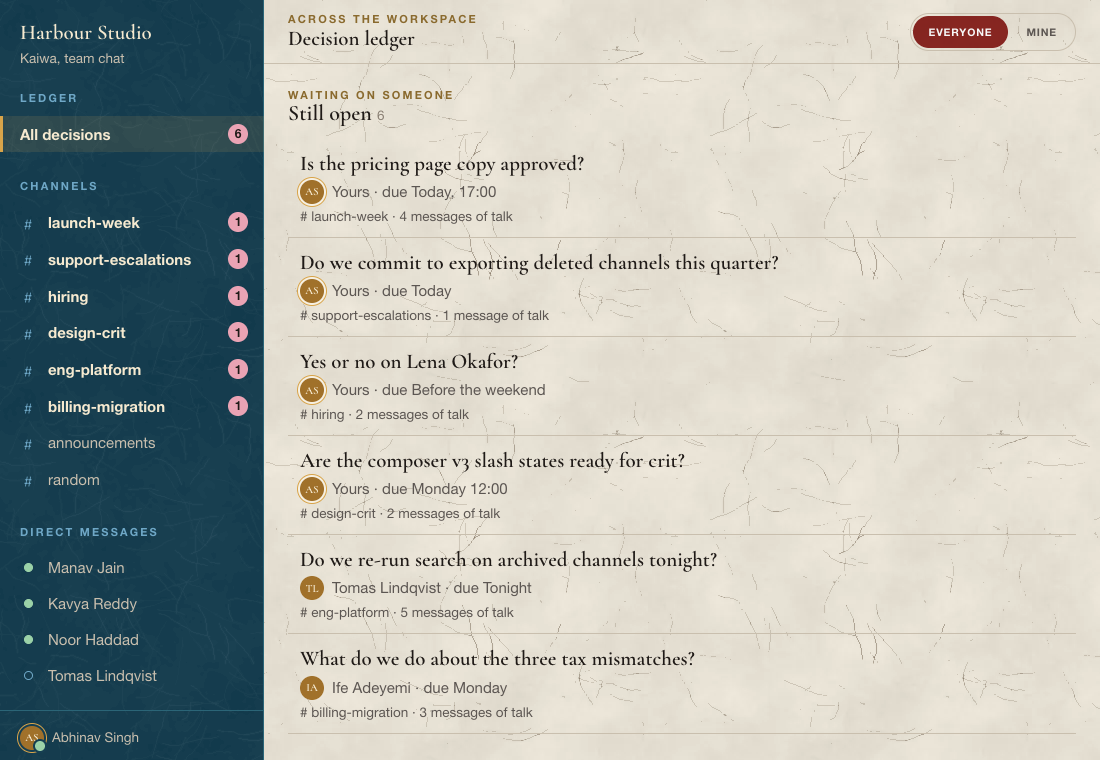
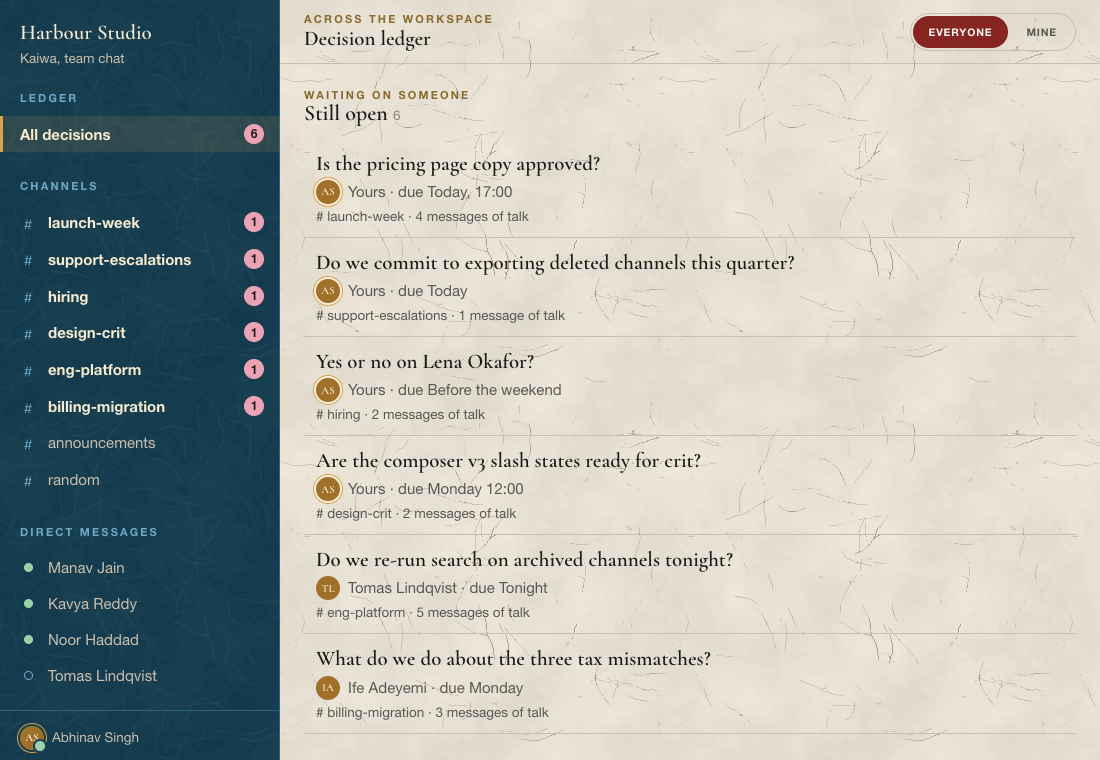
Chat and landing: answered posts leave the page, wider ledger rail, clearer panels

diff --git a/products/chat/02-mentioned-post/main.tsx b/products/chat/02-mentioned-post/main.tsx
@@ -14,8 +14,8 @@ const ROLES: Record<string, string> = { 'Kavya Reddy': 'Product designer', 'Mana
 
 // Saved between visits; survives a blocked or cleared store by falling back to the start state.
 const KEY = 'broadsheet-v1';
-type Saved = { read: Record<string, boolean>; extra: Record<string, Msg[]>; drafts: Record<string, string>; hidden: string[] };
-const EMPTY: Saved = { read: {}, extra: {}, drafts: {}, hidden: [] };
+type Saved = { read: Record<string, boolean>; extra: Record<string, Msg[]>; drafts: Record<string, string>; hidden: string[]; answered: Record<string, boolean> };
+const EMPTY: Saved = { read: {}, extra: {}, drafts: {}, hidden: [], answered: {} };
 const load = (): Saved => { try { return { ...EMPTY, ...JSON.parse(localStorage.getItem(KEY) ?? '{}') }; } catch { return EMPTY; } };
 const save = (s: Saved) => { try { localStorage.setItem(KEY, JSON.stringify(s)); } catch { /* still works for this visit */ } };
 
@@ -34,7 +34,8 @@ const MAX = () => (matchMedia('(max-width: 760px)').matches ? 1 : matchMedia('(m
 function Broadsheet() {
   useTabTrap();
   const [data, setData] = useState<Saved>(load);
-  const { read, extra, drafts, hidden } = data;
+  const { read, extra, drafts, hidden, answered } = data;
+  const [showAnswered, setShowAnswered] = useState(false);
   const put = useCallback((f: (d: Saved) => Saved) => setData((d) => { const n = f(d); save(n); return n; }), []);
   const [attached, setAttached] = useState<Record<string, File | undefined>>({});
   const forms = useRef<Record<string, HTMLFormElement | null>>({});
@@ -120,8 +121,12 @@ function Broadsheet() {
     if (!text && !file) return;
     const msg: Msg = { id: `s${Date.now()}`, who: ME, time: NOW, text: text || 'Shared a file.', file };
     setAttached((x) => ({ ...x, [s.key]: undefined }));
+    // Answering clears a post from the home page. Channel chats and personal chats are not posts.
+    const post = !s.key.startsWith('dm:') && !s.key.startsWith('c:');
+    const done = s.key.startsWith('m:') ? [s.key, ...stories.filter((x) => x.conv === s.conv && x.mentions && !isExtra(x.key)).map((x) => x.key)] : [s.key];
+    if (post) setToast({ t: 'Answered, and removed from the page', undo: () => { put((d) => { const a = { ...d.answered }; done.forEach((k) => delete a[k]); return { ...d, answered: a }; }); setToast(null); } });
     const bucket = s.key.startsWith('dm:') ? s.conv : isExtra(s.key) ? s.key : s.root.id;
-    put((d) => ({ ...d, extra: { ...d.extra, [bucket]: [...(d.extra[bucket] ?? []), msg] }, drafts: { ...d.drafts, [s.key]: '' } }));
+    put((d) => ({ ...d, extra: { ...d.extra, [bucket]: [...(d.extra[bucket] ?? []), msg] }, drafts: { ...d.drafts, [s.key]: '' }, answered: post ? { ...d.answered, ...Object.fromEntries(done.map((k) => [k, true])) } : d.answered }));
   };
   const markAll = () => {
     const before = read;
@@ -138,22 +143,24 @@ function Broadsheet() {
     put((d) => ({ ...d, extra: { ...d.extra, [c.id]: [...(d.extra[c.id] ?? []), m] } }));
     setTimeout(() => open(`${c.id}:${m.id}`), 0);
   };
-  const reset = () => { put(() => EMPTY); setWindows([]); setMini([]); setQ(''); setView('all'); setToast({ t: 'Edition reset to the start' }); };
+  const reset = () => { setShowAnswered(false); put(() => EMPTY); setWindows([]); setMini([]); setQ(''); setView('all'); setToast({ t: 'Edition reset to the start' }); };
 
   // Esc closes the window you are in.
   const onWinKey = (key: string) => (e: React.KeyboardEvent) => { if (e.key === 'Escape') { e.stopPropagation(); close(key); } };
 
   const needle = q.trim().toLowerCase();
-  const fits = (s: Story) => (view === 'all' || s.unread > 0) && (!needle || `${conv(s.conv).name} ${s.thread.map((m) => `${m.who} ${m.text}`).join(' ')}`.toLowerCase().includes(needle));
+  const gone = (s: Story) => !showAnswered && !!answered[s.key];
+  const fits = (s: Story) => !gone(s) && (view === 'all' || s.unread > 0) && (!needle || `${conv(s.conv).name} ${s.thread.map((m) => `${m.who} ${m.text}`).join(' ')}`.toLowerCase().includes(needle));
   // Rank from the edition itself, not read state, so stories never jump while you read.
   const fresh = (x: Story) => x.thread.filter((m) => m.isNew).length;
   const order = (l: Story[]) => [...l].sort((a, b) => Number(b.mentions && fresh(b) > 0) - Number(a.mentions && fresh(a) > 0) || fresh(b) - fresh(a) || mins(b.root) - mins(a.root));
   const groups = CONVS.filter((c) => c.kind === 'channel');
   const columns = groups.filter((c) => !hidden.includes(c.id)).map((c) => ({ c, list: order(stories.filter((s) => s.conv === c.id && !isExtra(s.key) && fits(s))) })).filter((x) => !needle && view === 'all' ? true : x.list.length);
-  const paperStories = stories.filter((s) => !isExtra(s.key));
+  const paperStories = stories.filter((s) => !isExtra(s.key) && !answered[s.key]);
   const totalUnread = paperStories.reduce((n, s) => n + s.unread, 0);
-  const boxes = stories.filter((s) => s.key.startsWith('m:') && (!needle || `${conv(s.conv).name} ${s.thread.map((m) => m.text).join(' ')}`.toLowerCase().includes(needle)) && (view === 'all' || s.unread > 0)).sort((a, b) => b.thread.filter((m) => m.who !== ME).length - a.thread.filter((m) => m.who !== ME).length);
-  const asks = stories.filter((s) => s.key.startsWith('m:') && s.unread > 0).length;
+  const boxes = stories.filter((s) => s.key.startsWith('m:') && !gone(s) && (!needle || `${conv(s.conv).name} ${s.thread.map((m) => m.text).join(' ')}`.toLowerCase().includes(needle)) && (view === 'all' || s.unread > 0)).sort((a, b) => b.thread.filter((m) => m.who !== ME).length - a.thread.filter((m) => m.who !== ME).length);
+  const asks = stories.filter((s) => s.key.startsWith('m:') && s.unread > 0 && !answered[s.key]).length;
+  const answeredCount = stories.filter((s) => answered[s.key] && !s.key.startsWith('m:')).length;
   const nothing = !columns.length && !boxes.length;
   const people = EVERYONE.filter((p) => !needle || p.toLowerCase().includes(needle) || (ROLES[p] ?? '').toLowerCase().includes(needle));
   const dmStory = (p: string) => stories.find((s) => s.key.startsWith('dm:') && conv(s.conv).name === p)!;
@@ -171,7 +178,7 @@ function Broadsheet() {
         <span className="xch08-story__head">{s.key.startsWith('dm:') ? `A letter from ${first(conv(s.conv).name)}` : headline(s.root.text)}</span>
         {lead && s.thread.length > 1 && <span className="xch08-story__deck">{rich(s.last.text)}</span>}
         <span className="xch08-story__meta">
-          {s.mentions && s.unread > 0 && <Tag variant="selected">For you</Tag>}
+          {answered[s.key] ? <Tag variant="selected">Answered</Tag> : s.mentions && s.unread > 0 && <Tag variant="selected">For you</Tag>}
           <span>{first(s.last.who)} · {s.last.yesterday ? 'Yesterday' : s.last.time}</span>
           {s.thread.length > 1 && <span>{s.thread.length} messages</span>}
           {s.unread > 0 && <span className="xch08-count ds-grain">{s.unread}<span className="ds-sr-only"> unread</span></span>}
@@ -197,6 +204,7 @@ function Broadsheet() {
           <p className="xch08-mast__sub" role="status">{asks > 0 ? `${asks} ${asks === 1 ? 'channel is' : 'channels are'} asking for you. ` : 'Nobody is waiting on you. '}{totalUnread} unread across {groups.length} groups.</p>
           <div className="xch08-mast__tools">
             <Button variant="ghost" size="sm" disabled={!totalUnread} onClick={markAll}>Mark edition read</Button>
+            {answeredCount > 0 && <Button variant="ghost" size="sm" aria-pressed={showAnswered} onClick={() => setShowAnswered(!showAnswered)}>{showAnswered ? 'Hide answered' : `Show answered ${answeredCount}`}</Button>}
             <Button variant="ghost" size="sm" onClick={reset}>Reset demo</Button>
           </div>
           <div className="xch08-sections" role="group" aria-label="Choose which groups run as columns">
@@ -256,7 +264,7 @@ function Broadsheet() {
             {columns.map(({ c, list }) => (
               <section key={c.id} id={`col-${c.id}`} className="xch08-col" aria-label={c.name}>
                 <header className="xch08-col__head"><h2 className="ds-h4"><button type="button" className="xch08-fold" aria-expanded={!folded[c.id]} onClick={() => setFolded((f) => ({ ...f, [c.id]: !f[c.id] }))}><span aria-hidden="true">{folded[c.id] ? '+' : '−'}</span> {title(c)}</button></h2><span className="ds-caption">{list.length} {list.length === 1 ? 'story' : 'stories'}</span></header>
-                {folded[c.id] ? null : list.length ? <ul>{list.map((s, i) => row(s, i === 0))}</ul> : <p className="ds-caption">No unread stories.</p>}
+                {folded[c.id] ? null : list.length ? <ul>{list.map((s, i) => row(s, i === 0))}</ul> : <p className="ds-caption">Nothing left to read here.</p>}
               </section>
             ))}
           </div>

diff --git a/landing/data.ts b/landing/data.ts
@@ -1,31 +1,25 @@
-// Everything shown on the landing page. Each wireframe is a list of columns; each column is a stack of labelled boxes.
-export type Screen = { path: string; name: string; line: string; notes: string[]; wire: string[][]; pick?: boolean };
+// Everything shown on the landing page.
+export type Screen = { path: string; name: string; line: string; notes: string[]; why?: string; pick?: boolean };
 
 export const MESSAGING: Screen[] = [
   { path: 'chat/01-decision-ledger', pick: true, name: 'Decision ledger', line: 'Most of what you scroll chat for is one thing: what did we decide?',
-    notes: ['A channel opens on its decisions, not its messages. You see what is settled and what is still waiting on someone.', 'Click a decision and the conversation behind it opens beside it, so the talk becomes the evidence.', 'This is the one I would take forward. Chat loses answers in the flow, and this fixes that directly.'],
-    wire: [['Channels', 'Open counts'], ['Still open', 'Decided'], ['The talk', 'Reply']] },
+    notes: ['A channel opens on its decisions, not its messages. You see what is settled and what is still waiting on someone.', 'Click a decision and the conversation behind it opens beside it, so the talk becomes the evidence.'], why: 'Chat loses answers in the flow, and this goes straight at that. It is the one I would take forward.', },
   { path: 'chat/02-mentioned-post', name: 'The Mentioned Post', line: 'A morning paper, except every headline is somewhere you were needed.',
-    notes: ['Each channel that tagged you becomes a box with the number of mentions and the latest one.', 'Open a box and you get only those messages, not the whole conversation.', 'People and channels sit on the left, and you can keep several chats open at once.'],
-    wire: [['People', 'Channels'], ['Mention boxes', 'Newspaper columns'], ['Chat popup']] },
+    notes: ['Each channel that tagged you becomes a box with the number of mentions and the latest one.', 'Open a box and you get only those messages, not the whole conversation.', 'People and channels sit on the left, and you can keep several chats open at once. Answer a post and it leaves the page.'], why: 'It treats catching up as the real job, and it shows the system can carry a very dense screen.', },
   { path: 'chat/03-people-first', name: 'People first', line: 'You usually want a person, not a channel.',
-    notes: ['Pick someone and your personal chat is already open.', 'Everything else you share with them lives in a thread panel beside it, filtered by personal or group.', 'It suits one-to-ones and handovers, but it is the weakest of the three for following a busy channel.'],
-    wire: [['People', 'Channels'], ['Person', 'Personal chat', 'Reply'], ['Filters', 'Threads']] },
+    notes: ['Pick someone and your personal chat is already open.', 'Everything else you share with them lives in a thread panel beside it, filtered by personal or group.'], why: 'The other two start from what was said. This one starts from who you need to talk to.', },
 ];
 
 export const READER: Screen[] = [
   { path: 'reader/01-year-as-book', pick: true, name: 'The year as a book', line: 'A reading profile is a story about someone, so I made it one you can page through.',
-    notes: ['The profile, reading now, the yearly challenge, shelves and reviews each get a spread.', 'Pages turn the way they do on my portfolio, with a real two-sided leaf.', 'This is the one I would take forward. A profile is meant to be shown off, and nothing else feels this personal.'],
-    wire: [['Name', 'Avatar', 'Stats'], ['Reading now', 'Next page']] },
+    notes: ['The profile, reading now, the yearly challenge, shelves and reviews each get a spread.', 'Pages turn the way they do on my portfolio, with a real two-sided leaf.'], why: 'A profile is meant to be shown off, and nothing else feels this personal. It is the one I would take forward.', },
   { path: 'reader/02-cover-wall', name: 'Cover wall', line: 'You can tell a lot about someone from their bookshelf.',
-    notes: ['Covers fill the page, grouped by shelf, with what you are reading now on top.', 'Pick a cover to see likes, ratings, tags and which friends have read it.', 'The most familiar of the three, and the quickest way to take in someone’s taste.'],
-    wire: [['Search', 'Shelves', 'Challenge'], ['Reading now', 'Wall of covers'], ['Book details', 'Tags']] },
+    notes: ['Covers fill the page, grouped by shelf, with what you are reading now on top.', 'Pick a cover to see likes, ratings, tags and which friends have read it.'], why: 'It is the quickest way to take in someone’s taste, and it keeps the page people already expect.', },
   { path: 'reader/03-blind-date', name: 'Blind date', line: 'What if you met a book by one line, before you saw its cover?',
-    notes: ['Nine lines from books you have not read. Flip a card when one pulls you in.', 'The back shows the book, its stars and its likes, with a button to add it to your list.', 'Your profile, stats, shelves and reviews sit below, so it still works as a full reader profile.'],
-    wire: [['Profile'], ['Nine flip cards'], ['My books', 'Shelves', 'Reviews']] },
+    notes: ['Nine lines from books you have not read. Flip a card when one pulls you in.', 'The back shows the book, its stars and its likes, with a button to add it to your list.', 'Your profile, stats, shelves and reviews sit below.'], why: 'It adds something to do, not just something to look at, and it still works as a full reader profile.', },
 ];
 
-const other = (path: string, name: string, line: string): Screen => ({ path, name, line, notes: ['An earlier test I learned from, and not part of the final six.'], wire: [['Open it to see the layout']] });
+const other = (path: string, name: string, line: string): Screen => ({ path, name, line, notes: ['An earlier test I learned from, and not part of the final six.'] });
 export const OTHERS: Screen[] = [
   other('chat/x-parity-channel', 'Parity channel', 'A normal team chat in my style, to check the system could carry one at all.'),
   other('chat/x-unified-inbox', 'Unified inbox', 'Every channel in one list, sorted by what needs you.'),

diff --git a/landing/styles.css b/landing/styles.css
@@ -11,7 +11,7 @@
 .xlan-links a { display: flex; align-items: center; min-height: var(--hit-min); font-family: var(--font-serif); font-size: var(--type-heading-4-size); font-weight: 600; color: var(--text-primary); box-shadow: inset 0 -1px 0 var(--border-subtle); }
 .xlan-zip { display: flex; flex-direction: column; align-items: flex-start; gap: var(--space-4); padding: var(--space-5); border-radius: var(--radius-md); background-color: var(--bg-surface); color: var(--text-primary); }
 .xlan-band { display: flex; flex-direction: column; gap: var(--space-2); padding: var(--space-12) max(var(--gutter), calc((100% - var(--content-max)) / 2)); background-color: var(--bg-canvas); color: var(--text-primary); }
-.xlan-band__sub { max-width: var(--reading-max); margin-bottom: var(--space-5); font-size: var(--type-body-m-size); color: var(--text-secondary); }
+.xlan-band__sub { max-width: var(--reading-max); margin-bottom: var(--space-5); font-size: var(--type-body-l-size); color: var(--text-secondary); }
 .xlan-tiles { list-style: none; margin: 0; padding: 0; display: grid; grid-template-columns: repeat(3, minmax(0, 1fr)); gap: var(--space-5); }
 .xlan-tiles--row { display: flex; gap: var(--space-5); overflow-x: auto; padding-bottom: var(--space-3); }
 .xlan-tiles--row > li { flex: 0 0 280px; }
@@ -21,12 +21,9 @@
 .xlan-tile__img img { display: block; width: 100%; height: 100%; object-fit: cover; object-position: top; }
 .xlan-tile__text { display: flex; flex-direction: column; gap: var(--space-1); padding: var(--space-4); }
 .xlan-tile__name { display: flex; flex-wrap: wrap; align-items: center; gap: var(--space-2); font-family: var(--font-serif); font-size: var(--type-heading-4-size); font-weight: 600; }
-.xlan-tile__line { font-size: var(--type-body-s-size); line-height: 1.45; color: var(--text-secondary); }
+.xlan-tile__line { font-size: var(--type-body-m-size); line-height: var(--type-body-m-line); color: var(--text-secondary); }
 .xlan-root .ds-sheet { width: min(50vw, 640px); min-width: min(420px, 100%); }
 .xlan-panel__line { margin-top: calc(-1 * var(--space-2)); }
-.xlan-panel__note { font-size: var(--type-body-m-size); line-height: var(--type-body-m-line); }
-.xlan-wire { display: flex; gap: var(--space-2); min-height: 220px; padding: var(--space-3); border-radius: var(--radius-md); background-color: var(--bg-raised); box-shadow: var(--elevation-1); }
-.xlan-wire__col { flex: 1; min-width: 0; display: flex; flex-direction: column; gap: var(--space-2); }
-.xlan-wire__box { flex: 1; display: grid; place-items: center; padding: var(--space-2); border: 1px dashed var(--border-strong); border-radius: var(--radius-xs); font-size: var(--type-label-tag-size); font-weight: 700; text-align: center; color: var(--text-secondary); }
+.xlan-panel__note { font-size: var(--type-body-l-size); line-height: var(--type-body-l-line); }
 .xlan-root .ds-sheet > .ds-btn--primary { align-self: flex-start; }
 @media (max-width: 900px) { .xlan-idea__grid { grid-template-columns: minmax(0, 1fr); gap: var(--space-8); } .xlan-tiles:not(.xlan-tiles--row) { grid-template-columns: minmax(0, 1fr); } .xlan-root .ds-sheet { width: 100%; } }

diff --git a/landing/main.tsx b/landing/main.tsx
@@ -1,5 +1,5 @@
 // The way in: what this is, how to get it, and every screen it produced.
-import { useCallback, useState } from 'react';
+import { useCallback, useEffect, useState } from 'react';
 import { createRoot } from 'react-dom/client';
 import { Button, Modal, Tag } from '../design-system/components';
 import { MESSAGING, READER, OTHERS } from './data';
@@ -13,6 +13,8 @@ const thumb = (s: Screen) => THUMBS[s.path.replace('/', '-')];
 function Landing() {
   const [open, setOpen] = useState<Screen | null>(null);
   const close = useCallback(() => setOpen(null), []);
+  // Coming back from a layout, the browser restores the page as it was: start clean.
+  useEffect(() => { const on = () => setOpen(null); addEventListener('pageshow', on); return () => removeEventListener('pageshow', on); }, []);
   const tile = (s: Screen) => (
     <li key={s.path}>
       <button type="button" className="xlan-tile" aria-label={`About ${s.name}`} onClick={() => setOpen(s)}>
@@ -72,9 +74,7 @@ function Landing() {
         {open && <>
           <p className="ds-tagline xlan-panel__line">{open.line}</p>
           {open.notes.map((n) => <p key={n} className="xlan-panel__note">{n}</p>)}
-          <div className="xlan-wire" role="img" aria-label={`Wireframe of ${open.name}: ${open.wire.flat().join(', ')}`}>
-            {open.wire.map((col, i) => <div key={i} className="xlan-wire__col">{col.map((b) => <span key={b} className="xlan-wire__box">{b}</span>)}</div>)}
-          </div>
+          {open.why && <><p className="ds-kicker">Why it’s one of the three</p><p className="xlan-panel__note">{open.why}</p></>}
           <Button variant="primary" href={`./products/${open.path}/`}>Open the layout</Button>
         </>}
       </Modal>

diff --git a/products/chat/01-decision-ledger/styles.css b/products/chat/01-decision-ledger/styles.css
@@ -16,3 +16,5 @@
 .xch03-root .ds-sheet .xck-composer { margin: 0; }
 @media (max-width: 760px) { .xch03-main { padding: var(--space-4); } }
 .xch03-talk__top { display: flex; align-items: center; justify-content: space-between; width: 100%; }
+@media (min-width: 761px) { .xch03-root .ds-app, .xch03-root .ds-app--aside { grid-template-columns: [side] 320px [main] minmax(0, 1fr); } .xch03-root .ds-app--aside { grid-template-columns: [side] 320px [main] minmax(0, 1fr) [aside] 360px; } }
+@media (min-width: 761px) and (max-width: 1100px) { .xch03-root .ds-app, .xch03-root .ds-app--aside { grid-template-columns: [side] 280px [main] minmax(0, 1fr); } }

diff --git a/products/chat/02-mentioned-post/README.md b/products/chat/02-mentioned-post/README.md
@@ -73,3 +73,5 @@ Windows cover the paper on small laptops, three at once take most of the width, 
 - `AppShell` assumes one main pane, so this layout composes its own top bar and has no rail. Phones have no sheet to manage because windows take over the screen.
 - No system window or dock component; built with tokens.
 - `ds-msg` and `ds-card` needed scoped tightening inside a 360px window.
+
+Answering a post removes it from the home page, with Undo and Show answered to bring it back. Chats opened from People or Channels stay, because they aren't posts.
